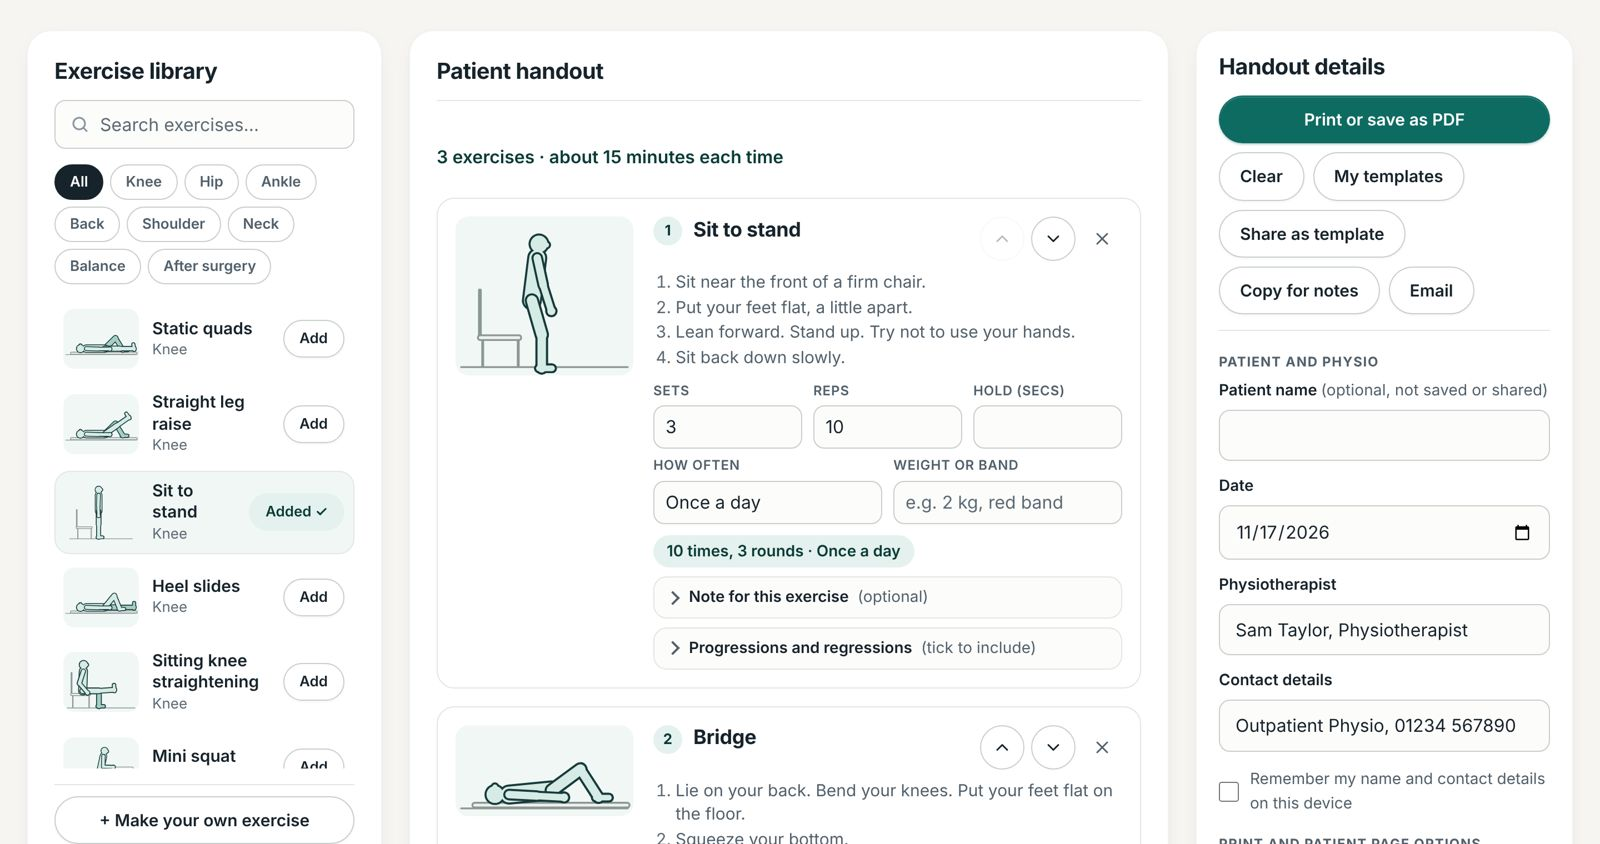
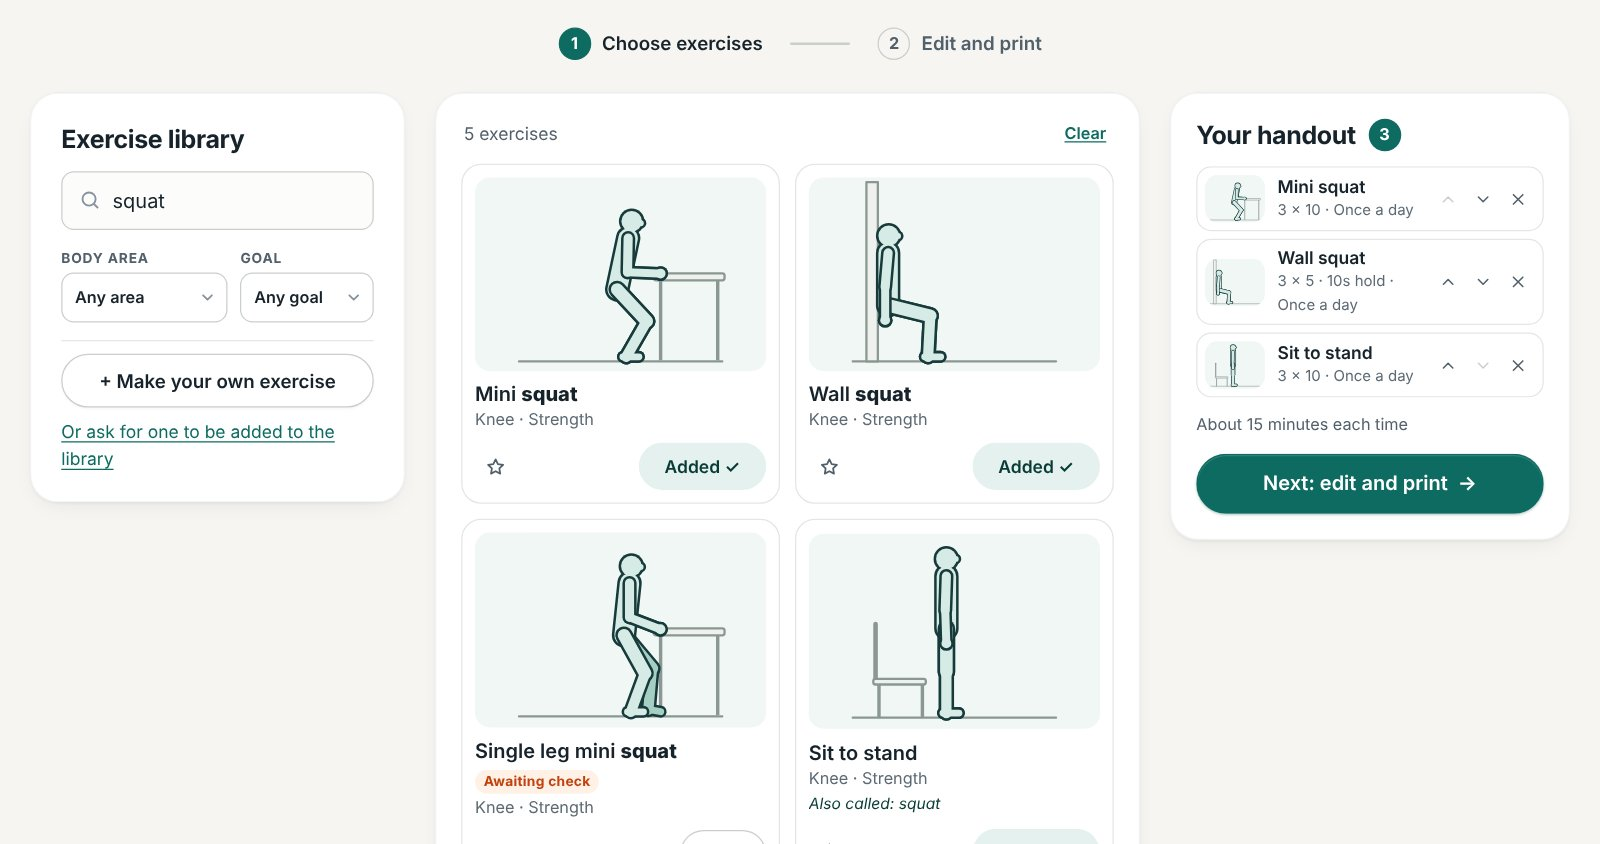
Patient and physio folds away; remove Email button; new landing picture of the two-step builder; tutorial updated
Claude-Session: https://claude.ai/code/session_01XeaMHdYeQZejG4GUxArj4A

diff --git a/tutorial.html b/tutorial.html
@@ -164,7 +164,7 @@
           <h2 id="stages-h"><span class="tut-num" aria-hidden="true">5</span>Stages</h2>
           <p class="tut-why">One handout and one QR code that covers a whole recovery, for example after surgery.</p>
           <ol>
-            <li>In <span class="tut-ui">Patient, physio, advice and stages</span> on the right, tick <span class="tut-ui">Split into stages</span>.</li>
+            <li>Under <span class="tut-ui">Stages</span> in Handout details on the right, tick <span class="tut-ui">Split into stages</span>.</li>
             <li>Name each stage and say when it is, for example "Weeks 0 to 2". Add up to 6 stages.</li>
             <li>Optionally write <span class="tut-ui">Move on when</span>, such as "You can stand up from a chair without using your hands".</li>
             <li>On each exercise card, choose its <span class="tut-ui">Stage</span>.</li>
@@ -193,7 +193,7 @@
         <!-- 7 -->
         <section id="advice" aria-labelledby="advice-h">
           <h2 id="advice-h"><span class="tut-num" aria-hidden="true">7</span>Advice and goals</h2>
-          <p class="tut-why">Open <span class="tut-ui">Patient, physio, advice and stages</span> on the right.</p>
+          <p class="tut-why">In step 2, open <span class="tut-ui">Patient and physio</span> and <span class="tut-ui">Advice and goals</span> on the right. Both fold away; when closed, each shows a short line of what is filled in. On a tablet or phone, first open <span class="tut-ui">Patient, physio, advice and stages</span>.</p>
           <h3>Patient and physio</h3>
           <ul>
             <li><strong>Patient name</strong> and <strong>Date</strong> print on the handout only. They are never put in the link or QR code, and are forgotten when you close the tab.</li>
@@ -212,14 +212,13 @@
         <section id="share" aria-labelledby="share-h">
           <h2 id="share-h"><span class="tut-num" aria-hidden="true">8</span>Print and share</h2>
           <p class="tut-why">The buttons are at the top of <span class="tut-ui">Handout details</span> in step 2.</p>
-          <figure class="tut-shot tut-shot-narrow"><img src="images/tutorial/4-details.webp" width="564" height="705" loading="lazy" alt="The Handout details panel with Print, Save as PDF, Copy link, Email, Copy notes, Templates, Share template and Clear buttons, and the Handout options open below."><figcaption>Handout details: everything for handing it over is at the top.</figcaption></figure>
+          <figure class="tut-shot tut-shot-narrow"><img src="images/tutorial/4-details.webp" width="564" height="705" loading="lazy" alt="The Handout details panel with Print, Save as PDF, Copy link, Copy notes, Templates, Share template and Clear buttons, and the Handout options open below."><figcaption>Handout details: everything for handing it over is at the top.</figcaption></figure>
           <table class="tut-opts">
             <thead><tr><th scope="col">Button</th><th scope="col">What it does</th></tr></thead>
             <tbody>
               <tr><td>Print</td><td>Opens the print window. The printout has step-by-step pictures, a QR code to the patient page, and your contact details.</td></tr>
               <tr><td>Save as PDF</td><td>Makes a PDF to save, attach to a letter or upload to records.</td></tr>
               <tr><td>Copy link</td><td>Copies the patient page link, to paste into a text, email or letter.</td></tr>
-              <tr><td>Email</td><td>Opens your own email program with the link filled in. RepSheet sends nothing itself.</td></tr>
               <tr><td>Copy notes</td><td>Copies a plain summary of the programme to paste into your clinical notes.</td></tr>
               <tr><td>Templates</td><td>Save this programme for next time, or load one.</td></tr>
               <tr><td>Share template</td><td>A link for colleagues with the programme but no patient details.</td></tr>

diff --git a/builder.html b/builder.html
@@ -254,7 +254,6 @@
           <button type="button" class="btn btn-primary" id="btn-print" title="Open the print window">Print</button>
           <button type="button" class="btn btn-primary btn-pdf" id="btn-pdf" title="Make a PDF of the handout and open it in a new tab">Save as PDF</button>
           <button type="button" class="btn btn-secondary" id="btn-copy-patient" title="Copy the patient page link, to paste into a text, email or letter" disabled>Copy link</button>
-          <button type="button" class="btn btn-secondary" id="btn-email" title="Email the handout link to your patient">Email</button>
           <button type="button" class="btn btn-secondary" id="btn-notes" title="Copy a summary of this programme to paste into your clinical notes">Copy notes</button>
           <button type="button" class="btn btn-secondary" id="btn-my-templates" title="Save this programme as a template, or load one you saved">Templates</button>
           <button type="button" class="btn btn-secondary" id="btn-template" title="Make a link to share this programme with colleagues (no patient details)">Share template</button>
@@ -317,7 +316,10 @@
       <details class="settings-details" id="settings-details" open>
         <summary>Patient, physio, advice and stages</summary>
         <div class="settings-body">
-          <h3 class="settings-group">Patient and physio</h3>
+          <!-- Patient and physio: folds away like the boxes below (options-fold.js), closed to start with (18 Nov 2026) -->
+          <details class="options-fold physio-fold" id="physio-fold">
+          <summary><h3 class="settings-group">Patient and physio</h3><span class="options-fold-sum" id="physio-fold-sum"></span><svg class="options-fold-chev" width="16" height="16" viewBox="0 0 24 24" aria-hidden="true" focusable="false"><path d="M6 9l6 6 6-6" fill="none" stroke="currentColor" stroke-width="2.2" stroke-linecap="round" stroke-linejoin="round"/></svg></summary>
+          <div class="options-fold-body">
           <div class="field-grid">
             <div class="field">
               <label for="patient-name">Patient name <span class="hint">(optional, never shared, forgotten when you close the tab)</span></label>
@@ -341,6 +343,8 @@
               <input type="checkbox" id="remember-me"> Remember my name and contact details on this device
             </label>
           </div>
+          </div>
+          </details>
 
           <!-- Advice and goals: optional, folds away (options-fold.js), closed to start with -->
           <details class="options-fold advice-fold" id="advice-fold">
@@ -427,23 +431,6 @@
       </nav>
     </div>
   </footer>
-
-  <!-- Email dialog -->
-  <dialog id="email-dialog" aria-labelledby="email-title">
-    <form method="dialog" class="dialog-body">
-      <h2 id="email-title">Email this handout</h2>
-      <p>This opens a new email in your own mail program (for example Outlook) with the exercises and the patient link written out. Nothing is sent from this website.</p>
-      <div class="field">
-        <label for="email-to">Patient email address <span class="hint">(optional)</span></label>
-        <input id="email-to" type="email" autocomplete="off">
-      </div>
-      <p class="hint">Tip: to include the step-by-step pictures, choose <em>Save as PDF</em>, save the PDF, and attach it to the email.</p>
-      <div class="dialog-actions">
-        <button value="cancel" class="btn btn-secondary">Cancel</button>
-        <button value="send" id="email-go" class="btn btn-primary">Open email</button>
-      </div>
-    </form>
-  </dialog>
 
   <!-- Share as template dialog -->
   <dialog id="my-templates-dialog" aria-labelledby="mt-title">

diff --git a/app.js b/app.js
@@ -1276,59 +1276,7 @@
     }
   }
 
-  function emailText() {
-    const lines = [];
-    const name = $("#patient-name").value.trim();
-    lines.push(name ? "Dear " + name + "," : "Hello,");
-    const msg = $("#patient-message").value.trim();
-    if (msg) lines.push("", msg);
-    lines.push("", "Here is your home exercise programme.");
-    if (currentLink && location.protocol !== "file:") {
-      lines.push("", "Watch your exercises (with moving pictures) here:", currentLink);
-    }
-    const general = $("#general-notes").value.trim();
-    if (general) lines.push("", general);
-    programme.forEach((item, i) => {
-      const ex = H.byId(item.id);
-      if (stages.length && (i === 0 || (programme[i - 1].stage || 1) !== (item.stage || 1))) {
-        const st = stages[(item.stage || 1) - 1];
-        lines.push("", "== " + st.name.toUpperCase() + (st.when ? " (" + st.when + ")" : "") + " ==");
-        if (st.move) lines.push("Move on to the next stage when: " + st.move);
-      }
-      lines.push("", (i + 1) + ". " + ex.name.toUpperCase());
-      H.stepsOf(item, ex).forEach((s) => lines.push("- " + s));
-      const d = H.describe(item);
-      if (d) lines.push(d);
-      if (item.notes.trim()) lines.push("Note: " + item.notes.trim());
-      const progs = [...item.prog.map((x) => ex.progressions[x]), String(item.progText || "").trim()].filter(Boolean);
-      if (progs.length) lines.push("To make it harder: " + progs.join("; "));
-      const regs = [...item.reg.map((x) => ex.regressions[x]), String(item.regText || "").trim()].filter(Boolean);
-      if (regs.length) lines.push("To make it easier: " + regs.join("; "));
-    });
-    lines.push("", "Stop if an exercise causes sharp pain, or pain that gets worse. Then call your physio.");
-    const who = [$("#clinician").value.trim(), $("#contact").value.trim()].filter(Boolean);
-    if (who.length) lines.push("", "Kind regards,", ...who);
-    return lines.join("\n");
-  }
-
-  async function openEmail() {
-    if (!programme.length) { toast("Add at least one exercise first"); return; }
-    clearTimeout(linkTimer);
-    await updateLink();
-    const dlg = $("#email-dialog");
-    dlg.returnValue = "";
-    dlg.showModal();
-  }
-
-  $("#email-dialog").addEventListener("close", () => {
-    if ($("#email-dialog").returnValue !== "send") return;
-    const to = $("#email-to").value.trim();
-    const href = "mailto:" + encodeURIComponent(to) +
-      "?subject=" + encodeURIComponent("Your home exercise programme") +
-      "&body=" + encodeURIComponent(emailText());
-    $("#email-to").value = ""; // don't keep the address around
-    window.location.href = href;
-  });
+  // Email button removed at Alex's request (18 Nov 2026): Copy link and Save as PDF cover sending.
 
   function clearAll() {
     if (!programme.length && !$("#patient-name").value && !$("#general-notes").value) return;
@@ -1623,7 +1571,6 @@
     sd.open = wide.matches;
     wide.addEventListener("change", () => { if (wide.matches) sd.open = true; });
   })();
-  $("#btn-email").addEventListener("click", openEmail);
   $("#btn-clear").addEventListener("click", clearAll);
   $("#btn-copy").addEventListener("click", copyLink);
   $("#btn-copy-patient").addEventListener("click", copyLink);

diff --git a/options-fold.js b/options-fold.js
@@ -1,5 +1,5 @@
 /*
-  FOLD-AWAY BOXES in Handout details: "Handout options" and "Advice and goals"
+  FOLD-AWAY BOXES in Handout details: "Handout options", "Patient and physio" and "Advice and goals"
   Each opens and closes (a <details> box) with a short slide and a turning arrow.
   When closed, a short line shows what is switched on or filled in.
   Open or closed is remembered on this device only. Both start closed.
@@ -57,6 +57,12 @@
     if (lang && lang.selectedIndex >= 0) bits.push(lang.options[lang.selectedIndex].text);
     OPTIONS.forEach(([id, name]) => { const c = $(id); if (c && c.checked && shown(c)) bits.push(name); });
     return bits;
+  });
+
+  const PHYSIO = [["patient-name", "Patient name"], ["clinician", "Physio"], ["contact", "Contact"]];
+  fold("physio-fold", "physio-fold-sum", "repsheet:physio-open", () => {
+    const bits = PHYSIO.filter(([id]) => { const f = $(id); return f && f.value.trim(); }).map(([, name]) => name);
+    return bits.length ? bits : ["Optional"];
   });
 
   const ADVICE = [["patient-message", "Message"], ["general-notes", "Advice"], ["goal", "Goal"], ["plan", "When"], ["duration", "How long"]];

diff --git a/index.html b/index.html
@@ -60,7 +60,7 @@
 
     <section class="showcase wrap" aria-label="What it looks like">
       <figure class="shot shot-builder">
-        <img src="images/landing/builder.jpg" width="1600" height="844" alt="The RepSheet builder: an exercise library on the left, the handout with Sit to stand and Bridge in the middle, and handout details on the right." fetchpriority="high">
+        <img src="images/landing/builder.jpg" width="1600" height="844" alt="The RepSheet builder, step 1 Choose exercises: a search for squat on the left, matching exercises with pictures in the middle, and Your handout on the right listing Mini squat, Wall squat and Sit to stand with a Next: edit and print button." fetchpriority="high">
       </figure>
       <figure class="shot shot-phone">
         <img src="images/landing/phone.jpg" width="585" height="1266" alt="The patient's page on a phone, with their goal and a moving picture of Sit to stand." loading="lazy">

diff --git a/sw.js b/sw.js
@@ -6,7 +6,7 @@
 
   When you change the site, change VERSION below (any new text), so phones fetch the new files.
 */
-const VERSION = "repsheet-2026-11-18-tutorial-top-bar";
+const VERSION = "repsheet-2026-11-18-physio-fold-no-email";
 // Natural-voice recordings (audio/...) are kept in their own store. Each file's name comes from its words,
 // so a file never changes: they are saved the first time they play and are not re-downloaded on updates.
 const AUDIO = "repsheet-audio-1";

diff --git a/styles.css b/styles.css
@@ -1316,3 +1316,5 @@ html[data-step="edit"] .programme-toolbar .view-switch { order: 1; }
   .header-tut { padding: 6px 10px; }
   .header-tut span { position: absolute; width: 1px; height: 1px; overflow: hidden; clip: rect(0 0 0 0); white-space: nowrap; }
 }
+.physio-fold { margin: 0 0 4px; }
+.physio-fold .tick-row { margin-top: 12px; }
